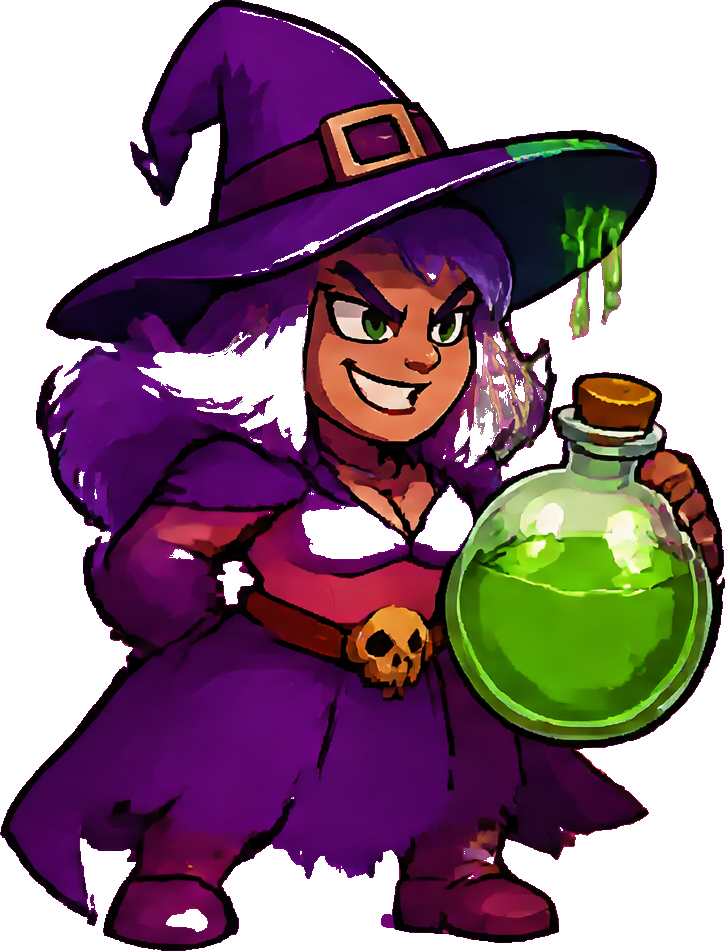
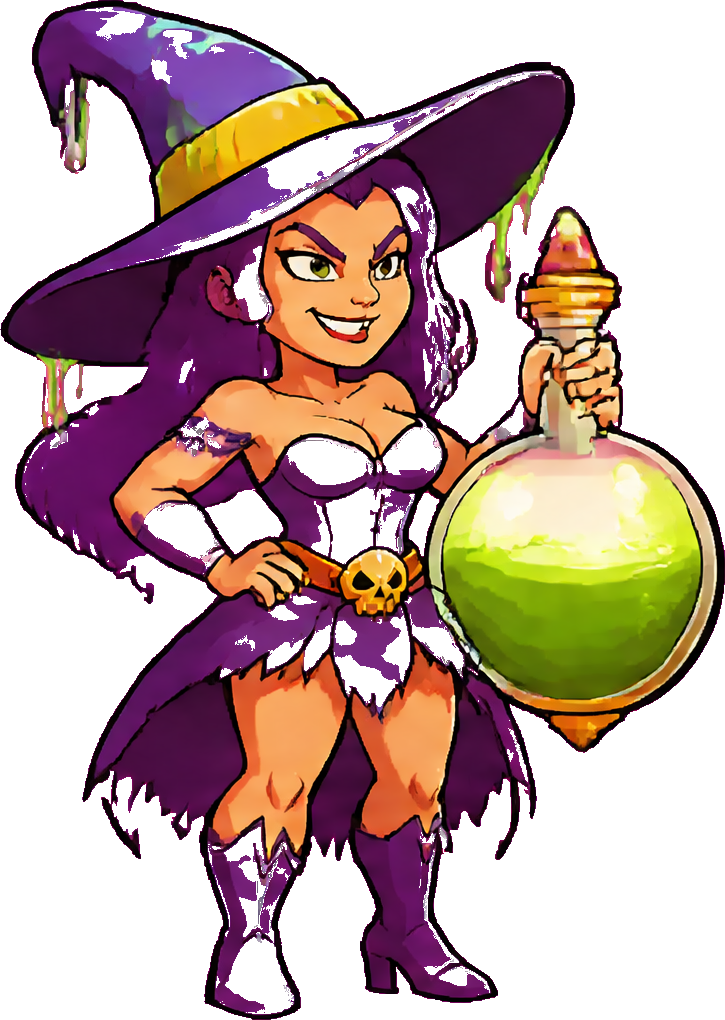
heroic style: ten women v04 (brighter; ranged women hourglass, melee women chunky); older versions removed
Claude-Session: https://claude.ai/code/session_01Q5Gk7T4PCNGVuwSY7d2naS

diff --git a/docs/styles/heroic-vector-style/lessons.md b/docs/styles/heroic-vector-style/lessons.md
@@ -33,3 +33,5 @@ So từng điểm với 10 ảnh tham chiếu cho thấy ba lần có ba kiểu 
 6. **Chi tiết vừa phải:** mép tấm giáp, dây đai, vài đinh tán tròn, tua, gấu váy rách bằng mảng lớn (đừng cấm hết chi tiết).
 7. Giữ **một vật khổng lồ** và **hệ nằm trong cơ thể và vật đó**; ảnh 3840×2160.
 **Bài học:** khi một khối style đã được duyệt thì chỉ thêm vào, không viết lại. "Sạch, đơn giản" không có nghĩa là bỏ tô khối, nét dày và tương phản.
+
+**Lần 4 (người dùng: "tốt hơn rồi, hơi tối, nữ đánh xa gợi cảm hơn, cận chiến giữ nguyên"):** (1) **sáng hơn:** câu "RICH but LIGHT shadows", "BRIGHT luminous saturated colours, HIGH-KEY lighting with light midtones, no muddy brown, no dark murky areas", bóng trong bảng hex được nâng sáng, màu da cam sáng thay nâu đỏ; (2) **hai họ thân hình trong cùng một lưới:** nữ cận chiến (sát thủ, cuồng chiến, trộm, hiệp sĩ, kiếm sĩ) giữ nguyên chunky 2,8-3,3 đầu; nữ đánh xa (phù thủy, pháp sư, cung thủ, hồi máu, nữ hoàng) **dáng đồng hồ cát** ~3,8-4,2 đầu: ngực đầy, eo rất nhỏ, hông đầy, chân dài săn chắc, tay thon chắc khỏe, áo bó và váy ngắn xẻ, tư thế chống hông tự tin, trưởng thành, không khỏa thân. Kết quả: sáng rõ, hai họ dáng tách biệt rõ trong một ảnh. Còn lại: đùi và tay một số con hơi to (muốn thon hơn, thêm "slender smooth limbs, not bulky"), Elda tay to, quầng hồng nhạt quanh đèn lồng của Elda.
